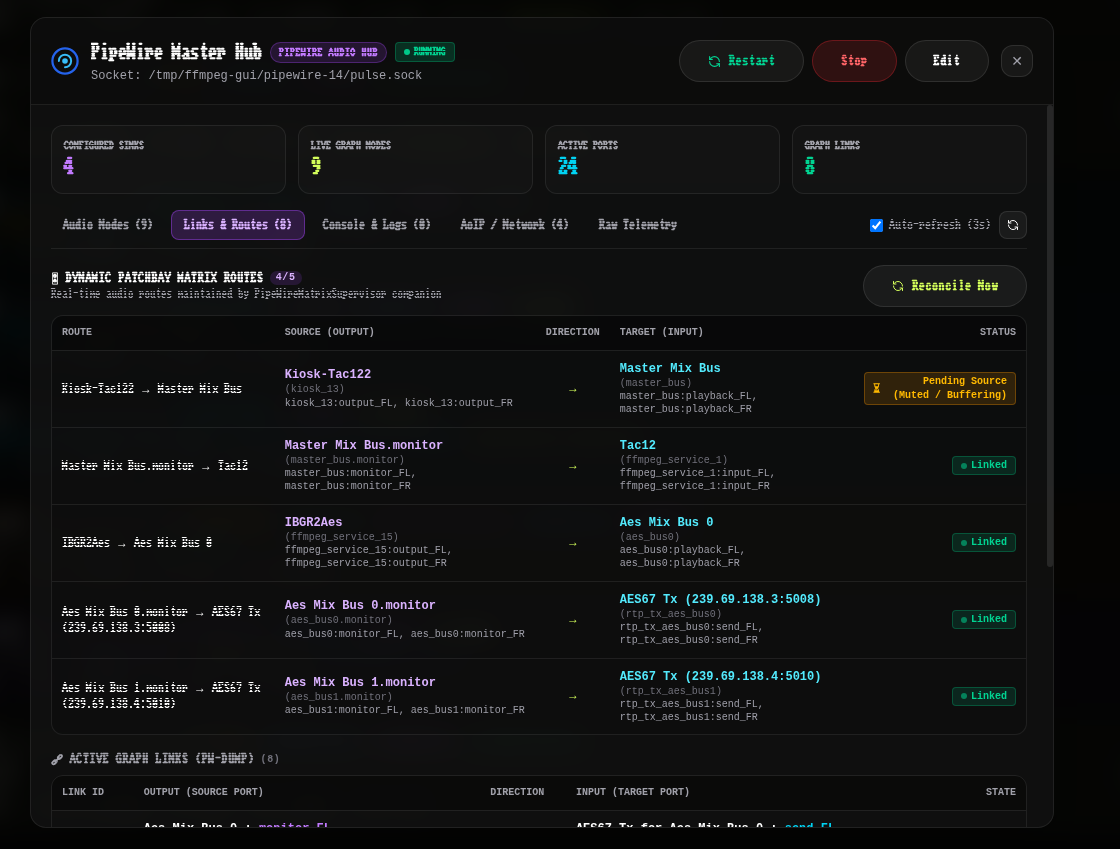
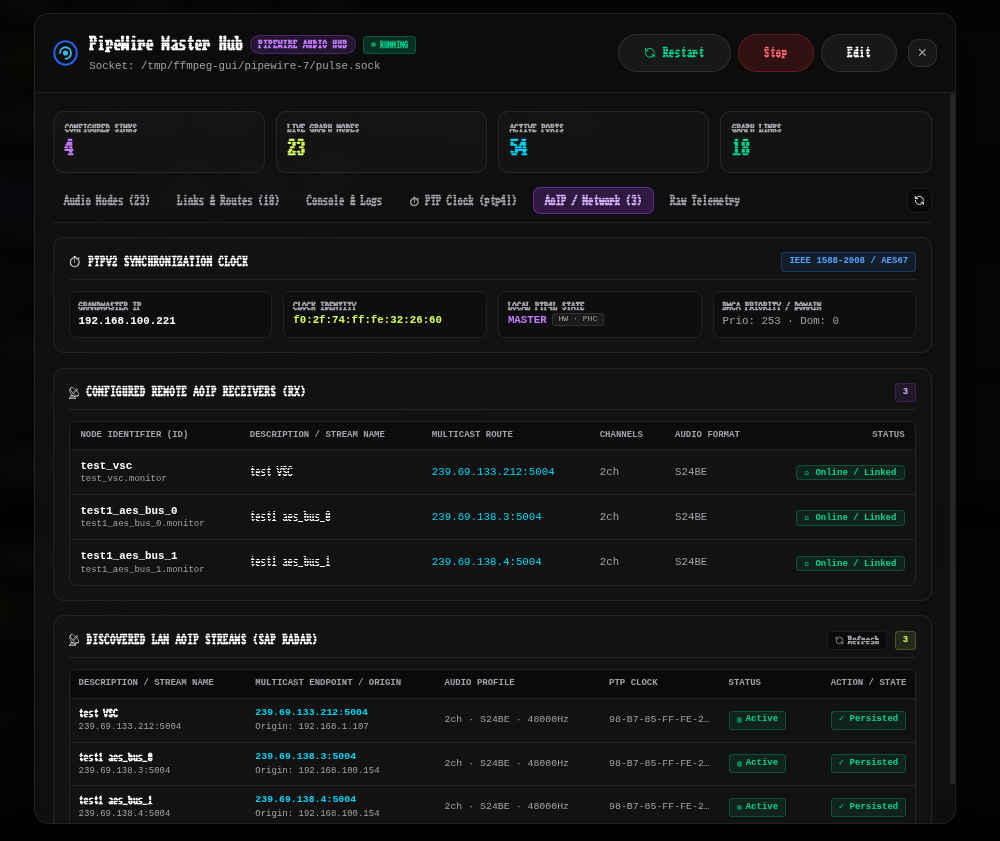
docs(readme): refresh screenshots and document v2.68.0 features in README and INSTALL

diff --git a/README.md b/README.md
@@ -35,6 +35,7 @@ Inspired by high-reliability systems and developer utility, it provides an intui
 - **Virtual Desktop Ingest & Intelligent Audio/FPS Sync**: Ingest uncompressed video from X11 Virtual Desktops with automatic geometry adoption, 1-click framerate alignment, and 1-click ALSA loopback audio pairing (`hw:Loopback,1,X`) to prevent audio desync or FFmpeg stream mapping crashes.
 - **Boot Sequence Hierarchies**: Configure specific startup ordering and delay gaps to synchronize cross-dependent streams (e.g., waiting for an input stream to initialize before starting a transcoder).
 - **GPU/CPU Pipeline Diagramming**: An interactive resource pipeline diagram in the GUI that visually tracks GPU decoding, filtering, encoding, and CPU multiplexing flow.
+- **Unified WebSocket Telemetry**: Live system metrics, service statuses, resource locks, and on-demand process/task logs stream over `/ws/telemetry`, eliminating periodic HTTP polling in views and preview modals.
 - **Live Stream Previews**: Embedded native HLS live video & audio player for HLS broadcast services, plus configurable periodic frame snapshots (MJPEG) with performance toggles for other streaming outputs.
 
 ![Hybrid GPU/CPU Transcode Pipeline](docs/assets/screenshot6.png)
@@ -56,7 +57,7 @@ Inspired by high-reliability systems and developer utility, it provides an intui
 ### 📻 4. Icecast2 Audio Broadcasting & Radio Hub
 - **Native Service Orchestration**: Manage dedicated Icecast2 server daemons directly alongside FFmpeg and MediaMTX pipelines.
 - **Dual HTTP & HTTPS/TLS Sockets**: Run unencrypted listener sockets (TCP 7000) and encrypted TLS streams (TCP 7443) simultaneously with automated concatenated PEM certificate bundles.
-- **Interactive Server Preview & Live Player**: Monitor stream status with an embedded live web iframe preview, HTML5 in-browser audio player for active mountpoints, listener counters, and real-time logs.
+- **Interactive Server Preview & Live Player**: Monitor stream status with an embedded live web iframe preview, HTML5 in-browser audio player for active mountpoints, listener counters, and real-time logs—routed through the internal reverse proxy so previews and audio work seamlessly over CloudHub tunnels as well.
 - **Static & Dynamic Mountpoint Management**: Configure granular mountpoints with max audience limits, fallback drop protection (`fallback-mount` / `fallback-override`), and burst buffers.
 - **Audience & Telemetry Monitoring**: Real-time `/status-json.xsl` and `/admin/stats.xml` telemetry polling directly into service cards and preview modal.
 - **Automated Native Log Rotation & Lifecycle**: Configurable `<logsize>` and `<logarchive>` native rotation coupled with system scheduled tasks (`system://log_rotate`) for automated `.gz` compression, retention purging, and orphan cleanup.
@@ -116,19 +117,24 @@ Inspired by high-reliability systems and developer utility, it provides an intui
 ![PipeWire Real-Time Audio Graph & Nodes Telemetry Inspector](docs/assets/screenshot25.png)
 
 - **Isolated Daemon Orchestration**: Deploy dedicated PipeWire server daemons running entirely in ephemeral RAM directories (`/tmp/ffmpeg-gui/pipewire-{id}`) with custom quantum and sample rate (48000 Hz) isolation.
-- **Virtual Audio Sinks & AES67 Multicast Broadcast**: Configure custom multi-channel virtual audio sinks (`mix_bus`, `kiosk_audio`, etc.) with optional AES67 / Dante multicast broadcast output over physical network interfaces with PTP clock domain support.
+- **AoIP Operating Profiles & Virtual Sinks**: Configure multi-channel virtual audio sinks (`mix_bus`, `kiosk_audio`, etc.) with three AoIP operating profiles (`ffmpeg-gui Mesh (Flexible)`, `Audinate Dante / AES67 (Strict)` enforcing port `5004`, RTP payload `96`, 1 ms ptime and hardware PTP gating, and `Broadcast / AES67 (Standard)`).
+- **PTPv2 Sync, BMCA & Non-Root Hardware Clocks**: IEEE 1588-2008 PTPv2 synchronization with BMCA Backup Master support, host OS `CLOCK_REALTIME` protection, non-root `/dev/ptp*` hardware clock access via udev rules, live `ptp4l`/`phc2sys` sidecar log tabs, and hitless sidecar reattachment across daemon restarts.
 - **Desktop & Web Kiosk Native Audio Routing**: Route Virtual Desktop and Kiosk audio directly to PipeWire sinks via native PulseAudio emulation sockets (`PULSE_SERVER`), completely bypassing legacy `apulse` or `snd-aloop` constraints.
 - **Universal FFmpeg Audio Matrix**:
   - Ingest directly from virtual bus monitors (`-f pulse -i <sink>.monitor`).
   - Playout directly into virtual sinks (`-f pulse <sink>`).
   - Bit-perfect 0% CPU Stream Copy (`-c:a copy`) passthrough between raw sources/destinations (ALSA, PipeWire, RTSP, RTP, file recording).
   - Automated lease management keeping the PipeWire daemon alive while active consumers stream and stopping cleanly on idle.
-- **Real-Time Graph & Node Inspector**: Telemetry modal providing real-time audio graph visualization (`pw-dump`), listing all active nodes, ports, links, and execution states.
+- **Reactive WebSocket Graph & SAP Radar Inspector**: Real-time WebSocket audio graph visualization (`pw-dump`), live node/port/link states, and SAP Radar stream discovery with dedicated `Online / Linked`, `Waiting`, and `Offline` indicators.
 
-### 🛡 9. Decoupled Watchdog Recovery
-- **Automatic Auto-Start**: Recovers crashed or disconnected streams automatically.
-- **Freeze Protection**: Actively monitors process FPS, bitrate, and outputs, force-restarting streams if frames freeze or connection drops.
+### 🛡 9. Process Watchdog & In-Band Signal Failover
+- **Automatic Auto-Start & Circuit Breaker**: Recovers crashed or disconnected streams automatically, while a crash-loop circuit breaker aborts retries on unrecoverable fatal errors (missing binary protocol, format, or codec).
+- **Freeze & Speed Protection**: Actively monitors process FPS, bitrate, and encoding speed, force-restarting streams if frames stall or speed drops below thresholds.
+- **Two-Tier RAM Guardrail & Muxing Queue Ceiling**: Enforces per-service soft RAM limits and a global hard RAM limit (`watchdog_hard_memory_limit_mb`), paired with `-max_muxing_queue_size 1024` on live outputs to prevent unbounded memory growth during asymmetric A/V desync.
+- **In-Band Signal Watchdog & Continuity Failover**: Dedicated `Watchdog` configuration tab injecting pass-through FFmpeg detectors (`silencedetect`, real-time `blackdetect` via metadata print, and `freezedetect`), with automatic VRAM bridge (`hwdownload`/`hwupload`) on hardware pipelines, `OR`/`AND` condition evaluation with recovery hold-off hysteresis, and selectable reactions (`Alert Only`, `Restart Self`, or `Activate Backup` failover leases with 1-hop anti-cascade protection).
 - **Jittered Backoff**: Uses exponential backoff delays combined with randomized jitter to break lockstep recovery loops and reduce server resource peaks during network outages.
+
+![Watchdog & In-Band Signal Failover Configuration](docs/assets/screenshot27.png)
 
 ### ⏰ 10. Task Scheduler & Service Maintenance Orchestration
 - **Automation Jobs**: Schedule recurring (cron-like) or one-shot encoding tasks (e.g., recording daily broadcasts, scheduled stream dumps).
@@ -137,6 +143,8 @@ Inspired by high-reliability systems and developer utility, it provides an intui
 - **Bilateral Cloning**: Seamlessly convert any active or stopped media service into a scheduled task template, or duplicate a task config into a running daemon service with a single click.
 
 ![Scheduled Tasks & Cron Automation](docs/assets/screenshot4.png)
+
+![Service Maintenance Restart Task Configuration](docs/assets/screenshot26.png)
 
 ### 🔒 11. HTTPS & Let's Encrypt SSL Manager
 - **Automated SSL/TLS Certificates**: Request and renew Let's Encrypt certificates directly from the GUI panel.
@@ -154,9 +162,10 @@ Inspired by high-reliability systems and developer utility, it provides an intui
 
 ### 🔔 14. State-Based SMTP Notifications
 - **Alert Fatigue Prevention**: Stateful notification queue that filters redundant alerts. Emails are dispatched exclusively on initial stream crashes, recovery success, and final retry exhaustion.
+- **In-Band Signal Alarms & Recovery**: Coalesced email alerts when signal watchdog sensors (`silence`, `black`, `freeze`) trip or recover after hold-off hysteresis.
 - **System Health Checks**: Active warnings for pending SSL/TLS certificate expirations, disk space utilization exceeding 90%, and debounced hardware thermal overheating and throttling events.
 
-### 📟 14. CFA635 LCD Display Driver
+### 📟 15. CFA635 LCD Display Driver
 - **Serial LCD Integration**: Direct driver control for CrystalFontz CFA635 USB/Serial displays. Renders live CPU, RAM, active stream counts, locator beacons, and handles backlight dimming timeouts.
 - **Bicolor Status LEDs**: Maps physical LEDs to profile monitors:
   - Heartbeat status indicator.
@@ -168,12 +177,12 @@ Inspired by high-reliability systems and developer utility, it provides an intui
   - Federated peer status monitor (`P2P` profile with worst-state aggregation).
   - Thermal overheat and throttling alert (`THERM` profile).
 
-### 🌐 15. Styling & Localization
+### 🌐 16. Styling & Localization
 - **Multi-Theme Engine**: 5 visual styles (Studio Dark, Cyberpunk Neon, Nordic Frost, Broadcast Light, Warm Paper) loaded instantly without page flash.
 - **Full Translations**: English, Spanish, and Catalan interfaces with 100% i18n parity.
 - **Modern 4-Column 1080p Layout**: Responsive 4-column dashboard grid layout maximizing space utilization on high-resolution broadcast control monitors.
 
-### 🌡 16. Industrial Hardware Telemetry & Thermal Shielding
+### 🌡 17. Industrial Hardware Telemetry & Thermal Shielding
 - **Kernel-Level Health Extraction**: Direct `/sys/class/hwmon` and `/sys/devices/system/cpu` reading with package/core temperatures, cooling fan RPM tachometers, and CPU throttling detection (`throttle_active`, `package_throttled`, `core_throttled`).
 - **Host System & Service Uptimes**: Live side-by-side telemetry comparison of host OS uptime versus `ffmpeg-gui` systemd unit runtime directly in the Dashboard.
 - **Specialized Card Telemetry**: AudioScience DSP load and temperature tracking via `hpicontrol.py`, Magewell Pro Capture FPGA core temperatures, and Blackmagic DeckLink PCIe link generation/bus width.
@@ -184,7 +193,7 @@ Inspired by high-reliability systems and developer utility, it provides an intui
 
 ![Warm Paper Theme in Task Scheduling](docs/assets/screenshot12.png)
 
-### 🛡 17. Brute-Force Protection & Security Logging (Fail2ban Ready)
+### 🛡 18. Brute-Force Protection & Security Logging (Fail2ban Ready)
 - **In-Memory IP Lockout**: Built-in guard tracks failed login attempts in RAM and temporarily bans abusive clients (`HTTP 429 Too Many Requests` / `Retry-After`) with zero SQLite overhead during attacks.
 - **Permanent Loopback Immunity**: Localhost and loopback interfaces (`127.0.0.1`, `::1`) are hardcoded as immune to prevent locking out local SSH tunnels or reverse proxies, alongside custom CIDR/IP whitelisting.
 - **Standardized Logs for External IDS/IPS**: Standardized warning events emitted in `ffmpeg-gui.log` and Nginx-format HTTP lines in `access.log` with real client IP resolution via `X-Forwarded-For` and `X-Real-IP`.
@@ -199,7 +208,7 @@ sudo cp packaging/fail2ban/jail.d/ffmpeg-gui.local /etc/fail2ban/jail.d/
 sudo fail2ban-client reload
 ```
 
-### 🧰 18. Administrative Rescue CLI (`ffmpeg-gui-admin`)
+### 🧰 19. Administrative Rescue CLI (`ffmpeg-gui-admin`)
 - **Out-of-Band Recovery**: Command-line utility to diagnose and recover instances without browser access.
 - **Admin Password Reset**: Reset administrative passwords directly from the terminal (`reset-admin`).
 - **IP Ban & Lockout Clearing**: Clear active in-memory brute-force lockouts (`reset-lockout` / `reset-all`) in case an administrator gets locked out.
@@ -212,29 +221,31 @@ sudo fail2ban-client reload
 ./bin/ffmpeg-gui-admin reset-admin
 ```
 
-### 🌐 19. Dynamic Interface Binding & Live Firewall Matrix
+### 🌐 20. Dynamic Interface Binding & Live Firewall Matrix
 - **Dynamic Interface Enumeration**: Detects all physical, virtual, and loopback interfaces (IP, netmask, MAC, speed, and link state).
 - **Fail-Safe Bind Resolver**: Prevents administrative lock-out if network interfaces change, drop, or migrate; automatically falls back to `0.0.0.0` with clear diagnostic warnings.
 - **Daemon Integration**: Bind FFmpeg-GUI core, MediaMTX, Icecast2, and PipeWire Audio Hubs (AES67 AoIP, SAP discovery, PTPv2) to specific interfaces or individual IP addresses.
 - **Live Firewall Matrix & Rule Generator**: Real-time socket scanner reporting live listening ports across all daemons, stream pipelines, and AoIP receivers with 1-click copyable UFW and iptables rule sets.
 
-### 📡 20. LAN Discovery Beacon & Desktop Companion
-- **UDP Broadcast Beacon**: Background presence service broadcasting JSON appliance heartbeats on port `59990/udp` with an immutable hardware-backed node identity.
+### 📡 21. LAN Discovery Beacon & Desktop Companion
+- **Multi-NIC / Multi-Subnet UDP Beacon**: Background presence service enumerating all active physical/VLAN/bridge LAN IPv4 interfaces (`"ips"`), broadcasting JSON appliance heartbeats on port `59990/udp` to both `255.255.255.255` and per-subnet directed broadcast addresses with a hardware-backed node identity.
 - **Web GUI Kill-Switch**: Fully configurable and toggleable from Web GUI Settings (`Network & SSL`) or REST API.
 - **Desktop Companion App**: Pair with [ffmpeg-gui-scanner](https://github.com/alexolivan/ffmpeg-gui-scanner) on Windows, macOS, or Linux for zero-configuration LAN discovery, live vitality tracking, and 1-click dashboard access.
 
-### ☁ 21. CloudHub Central Directory & Reverse Tunnel Bastion
+### ☁ 22. CloudHub Central Directory & Reverse Tunnel Bastion
 - **Zero-Port-Forwarding Remote Access**: Outbound WebSocket reverse tunnel connecting to a central [ffmpeg-gui-cloudhub](https://github.com/alexolivan/ffmpeg-gui-cloudhub) instance, bypassing firewalls and CGNAT without requiring VPN setups or open inbound router ports.
-- **In-Memory ASGI Bridge**: Proxied HTTP and WebSocket traffic executes directly within the local FastAPI application, eliminating port binding conflicts and SSL redirect loops.
+- **In-Memory ASGI Bridge & Chunked Streaming**: Proxied HTTP, chunked streaming responses (live MJPEG previews and internal Icecast reverse proxying), and WebSocket traffic execute directly within the local FastAPI application, with per-frame size guards against oversized payload disconnects.
 - **Zero-Knowledge Single Sign-On (SSO)**: Ephemeral HMAC-SHA256 signed assertions grant instant operator access without sharing local passwords.
 - **Fine-Grained RBAC Claims Enforcement**: Signed tunnel capability assertions (`authz_claims`) enforce module, service, and task level permissions (`monitor`, `operate`, `manage`, `admin`) across HTTP, WebSocket streams, VNC view-only mode, and redacted UI controls.
 - **1-Click Token Enrollment**: Simple enrollment flow from the Network settings card with live vitality telemetry streaming.
 
-### 📊 22. Volatile 24h RRD Metrics & Prometheus / OpenMetrics Exporter
+### 📊 23. Volatile 24h RRD Metrics & Prometheus / OpenMetrics Exporter
 - **Zero Disk Writes (Flash/SATADom Friendly)**: Pure in-memory multi-tier circular buffers (`30m` @ 5s, `6h` @ 60s, `24h` @ 300s) storing live telemetry (bitrate, fps, speed, cpu, ram) under 100 KB RAM per service with zero flash storage writes.
 - **Min/Max Outlier Envelope Retention**: Brief drops (such as bitrate falling to 0 for a few seconds) remain visible over 24h via shaded corridor envelopes rather than disappearing into averaged lines.
 - **In-Card Micro-Sparklines & Expandable Histograms**: Compact sparklines in service cards with anomaly indicators and expandable interactive SVG drawer histograms with hover tooltips and crosshairs across all 5 visual themes.
-- **Authenticated Prometheus / OpenMetrics HTTP Endpoint**: Standard `/api/metrics` and `/metrics` scraper endpoints exposing node and service metrics, configurable in Settings with Bearer token authentication, IP/CIDR filtering, and copyable `prometheus.yml` scrape configs.
+- **Authenticated Prometheus / OpenMetrics v2 Exporter**: Standard `/api/metrics` and `/metrics` scraper endpoints exposing host health, FFmpeg, Icecast2, MediaMTX, PipeWire, task, peer latency, and `ffmpeg_gui_service_signal_alarm` metrics, configurable in Settings with Bearer token authentication, IP/CIDR filtering, and copyable `prometheus.yml` scrape configs. Ready-to-import Prometheus and Grafana dashboard templates are available in [`packaging/prometheus/`](packaging/prometheus/).
+
+![Prometheus & OpenMetrics Exporter Settings](docs/assets/screenshot28.png)
 
 ---
 

diff --git a/INSTALL.md b/INSTALL.md
@@ -110,7 +110,7 @@ If running in user-space or configuring manually:
 ### Sound Card Slot Ordering & Intel VT-d (IOMMU) Advisor
 
 When multiple sound cards are present or when using AudioScience DSP adapters (`snd-asihpi`):
-1. **Sound Card Index Pinning**: ALSA loads sound drivers asynchronously by default, which can cause card numbers (`hw:0`, `hw:1`) to alternate across boots. The panel includes an integrated **ALSA Advisor** in *Settings > ALSA Audio* that automatically generates the recommended `/etc/modprobe.d/alsa-base.conf` configuration snippet specifying `options snd slots=...` to ensure deterministic card ordering.
+1. **Sound Card Index Pinning**: ALSA loads sound drivers asynchronously by default, which can cause card numbers (`hw:0`, `hw:1`) to alternate across boots. The panel includes an integrated **ALSA Advisor** in *Hardware & I/O > ALSA Audio* that automatically generates the recommended `/etc/modprobe.d/alsa-base.conf` configuration snippet specifying `options snd slots=...` to ensure deterministic card ordering.
 2. **Intel VT-d DMA Conflict Hazard**: On systems with Intel VT-d enabled in strict translation mode, the Linux IOMMU may block 32-bit DMA transfers to AudioScience DSP adapters (`DMAR: [DMA Read NO_PASID] ... PTE Read access is not set`), causing HPI timeouts (`HPI error 207 / 105`). If flagged by the panel advisor, add `intel_iommu=pt iommu=pt` to `GRUB_CMDLINE_LINUX_DEFAULT` in `/etc/default/grub` and run `sudo update-grub`.
 
 ---
@@ -148,7 +148,7 @@ To run the update:
 1. Verifies network connectivity with air-gap ping fallbacks to prevent update freezes.
 2. Updates the Python virtual environment (`venv`) and installs requirements.
 3. Checks package-lock hash caches to avoid unnecessary `npm install` runs.
-4. Builds production-grade minified assets using Vite.
+4. Builds minified frontend assets using Vite.
 5. Re-generates systemd configuration capabilities if missing.
 6. Gracefully restarts the `ffmpeg-gui` orchestrator process.
 
@@ -192,3 +192,4 @@ chmod +x uninstall.sh
 - **Endpoints**: `/api/metrics` and `/metrics`
 - **Security**: Disabled by default. Can be enabled in Settings (`Network -> Prometheus & OpenMetrics Exporter`) with Bearer token authentication and CIDR IP whitelisting.
 - **Storage Impact**: Zero disk writes. All metrics are collected dynamically from process execution state and volatile in-memory RRD buffers, making it suitable for SATADom or flash-memory installations.
+- **Templates**: Example `prometheus.yml` scrape config and ready-to-import Grafana dashboard JSON are located under [`packaging/prometheus/`](packaging/prometheus/).
